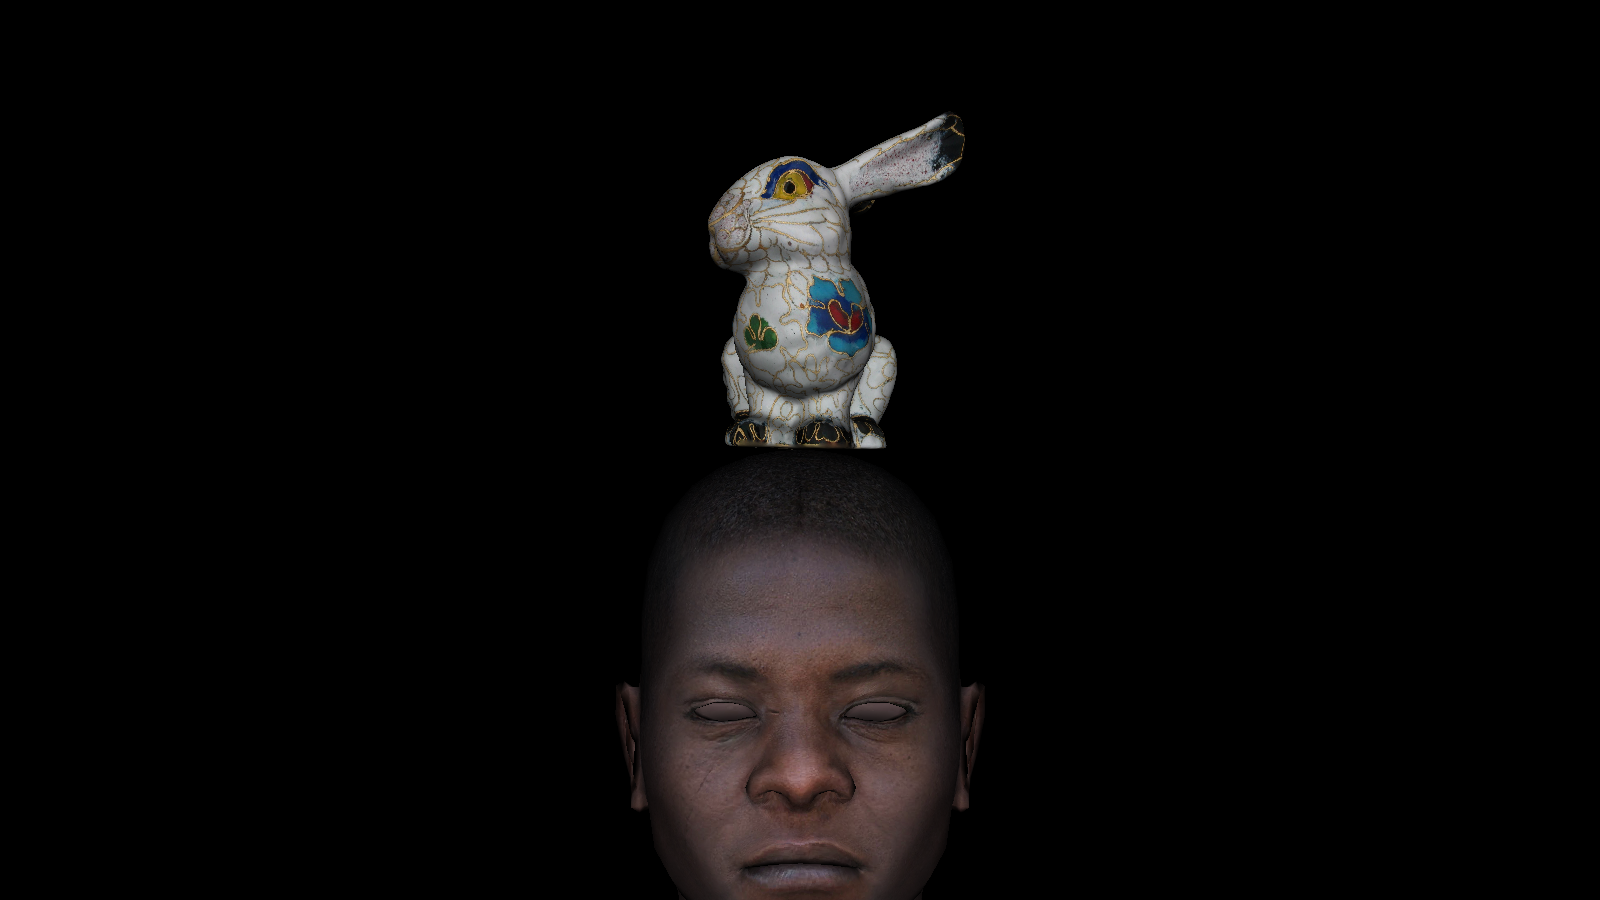
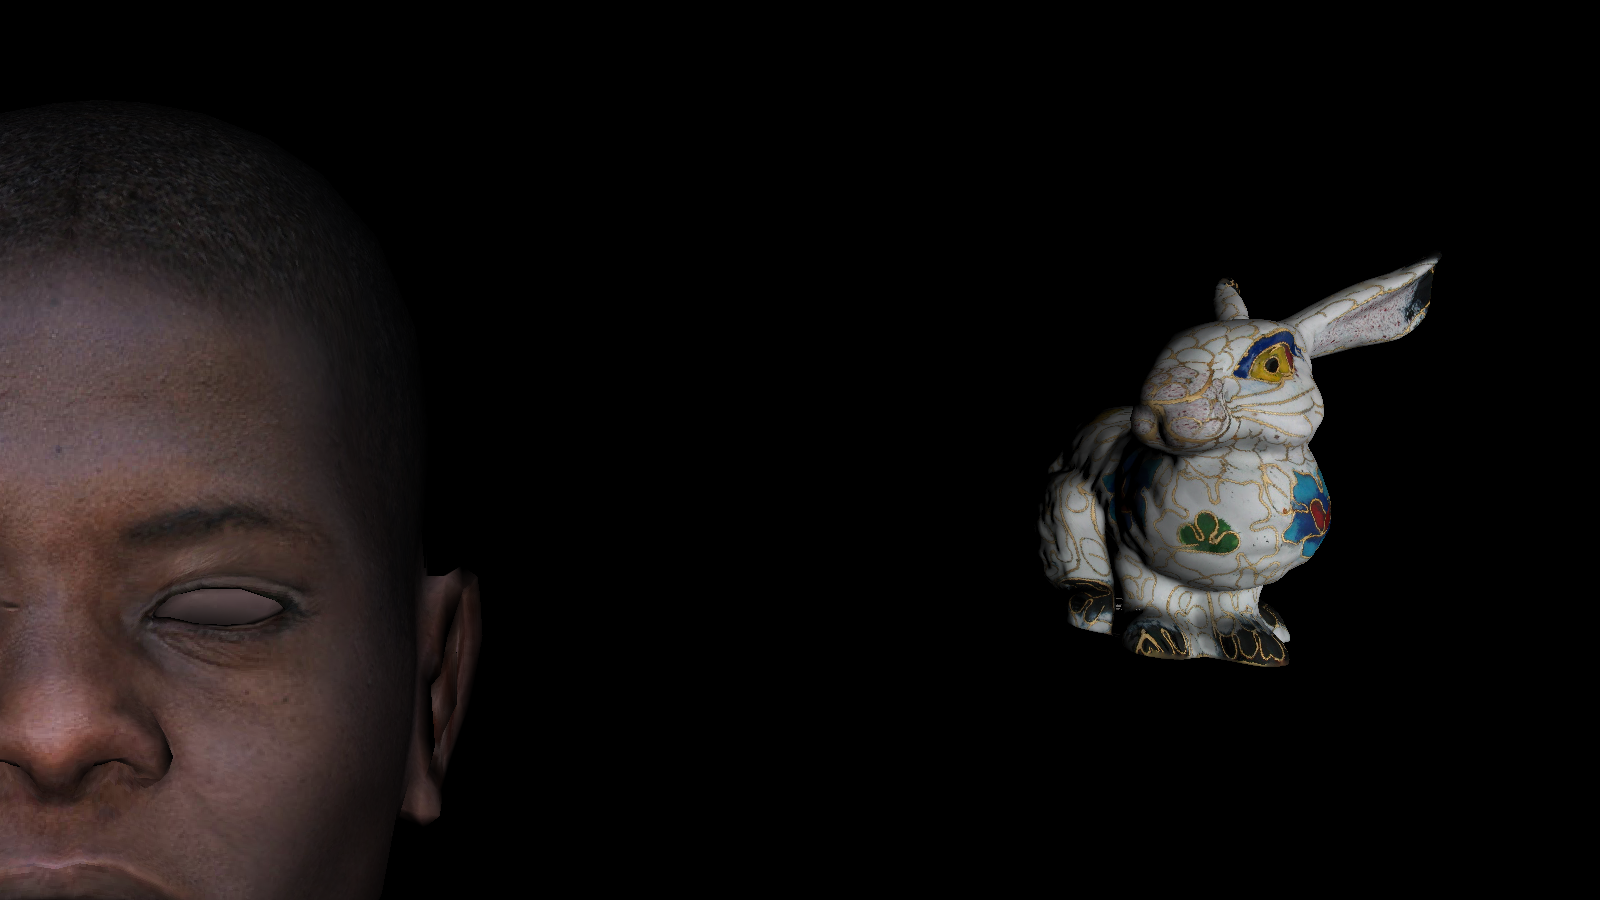
LR 5 upd

diff --git a/LR_5.py b/LR_5.py
@@ -39,7 +39,7 @@ def getNormArr(ver, pol, normArr):
         normArr[j] = normArr[j]/np.linalg.norm(normArr[j])
     return normArr
 
-def paint(matrix, zbuf, cameraCoef, sizeCoef, ver, pol, normArr, vt, txtres):
+def paint(matrix, zbuf, cameraCoef, sizeCoef, ver, pol, normArr, vt, txtres=np.array(0)):
     if(pol!=0):
         for i in pol:
             temp=cut(ver[i[0]-1][0],ver[i[0]-1][1],ver[i[0]-1][2],ver[i[1]-1][0],ver[i[1]-1][1],ver[i[1]-1][2],ver[i[2]-1][0],ver[i[2]-1][1],ver[i[2]-1][2])
@@ -53,17 +53,17 @@ def getMatrix(H, W, color):
             matrix[i][j] = color
     return matrix
 
-def getZBuff(H,W):
-    matrix = np.zeros((W,H),dtype=np.float64)
-    for i in range(0, W):
-        for j in range(0, H):
+def getZBuff(matrix):
+    matrix = np.zeros((matrix.shape[0],matrix.shape[1]),dtype=np.float64)
+    for i in range(0, matrix.shape[0]):
+        for j in range(0, matrix.shape[1]):
             matrix[i][j]=np.inf
     return matrix
 
-def saveMatrixAsIMG(matrix):
+def saveMatrixAsIMG(matrix, name='image1.png'):
     image = Image.fromarray(matrix, mode='RGB')
     image = ImageOps.flip(image)
-    image.save('image1.png')
+    image.save(name)
 
 def rotMatrix(alpha=np.radians(0),beta=np.radians(0),gamma=np.radians(0)):
     Rx=np.array(
@@ -97,7 +97,7 @@ def bary(x0,y0,x1,y1,x2,y2,x,y):
     l2 = 1.0 - l0 - l1
     return l0, l1, l2
 
-def draw_tr(matrix,zbuf,cameraCoef,sizeCoef,x0,y0,z0,x1,y1,z1,x2,y2,z2,i0,i1,i2,ipol,vt,txtres):
+def draw_tr(matrix,zbuf,cameraCoef,sizeCoef,x0,y0,z0,x1,y1,z1,x2,y2,z2,i0,i1,i2,ipol,vt,txtres=np.array(0)):
     # Сюда добавляем
     a = (7000*cameraCoef)*sizeCoef
     px0, py0 =  (a * x0 / z0 + W/2), (a * y0 /z0 + H/2)
@@ -128,12 +128,16 @@ def draw_tr(matrix,zbuf,cameraCoef,sizeCoef,x0,y0,z0,x1,y1,z1,x2,y2,z2,i0,i1,i2,
             l0,l1,l2 = bary(px0,py0,px1,py1,px2,py2,x,y)
             if(l0>=0 and l1>=0 and l2>=0):
                 z=l0*z0+l1*z1+l2*z2
-                if(z < zbuf[y][x]):
-                    I = l0*I0+l1*I1+l2*I2
-                    I = max(0, min(1,-I))
-                    color = I * txtres[int((txtres.shape[0]-1)*(l0*p0ResCoord[0]+l1*p1ResCoord[0]+l2*p2ResCoord[0]))][int((txtres.shape[1]-1)*(l0*p0ResCoord[1]+l1*p1ResCoord[1]+l2*p2ResCoord[1]))]
-                    matrix[y][x] = color
-                    zbuf[y][x] = z
+                if(x<matrix.shape[1] and y<matrix.shape[0]):
+                    if(z < zbuf[y][x]):
+                        I = l0*I0+l1*I1+l2*I2
+                        I = max(0, min(1,-I))
+                        if(len(txtres.shape)!=0):
+                            color = I * txtres[int((txtres.shape[0]-1)*(l0*p0ResCoord[0]+l1*p1ResCoord[0]+l2*p2ResCoord[0]))][int((txtres.shape[1]-1)*(l0*p0ResCoord[1]+l1*p1ResCoord[1]+l2*p2ResCoord[1]))]
+                        else:
+                            color = 255 * I
+                        matrix[y][x] = color
+                        zbuf[y][x] = z
 
 def nor(x0,y0,z0,x1,y1,z1,x2,y2,z2):
     return np.cross(np.array([x1-x2,y1-y2,z1-z2]),np.array([x1-x0,y1-y0,z1-z0]))
@@ -192,20 +196,21 @@ W = 1600
 H = 900
 matrixIMG = getMatrix(W, H,(0, 0, 0))
 cameraCoefA=10.5
-sizeCoefA=0.05
+sizeCoefA=0.1
 cameraCoefB=0.17
-sizeCoefB=0.4
+sizeCoefB=0.5
 txtresA = np.array(ImageOps.flip(Image.open("AfroRes.bmp")))
 verA, polA , vtA = objParser("Afro.obj")
 normArrA = np.zeros((len(verA), 3))
-verA=resizeNew(verA,0,-1,cameraCoefA, getQuat(0, m.pi, 0))
+verA=resizeNew(verA,-1,-0.5,cameraCoefA, getQuat(0, m.pi, 0))
 normArrA=getNormArr(verA,polA,normArrA)
 txtresB = np.array(ImageOps.flip(Image.open("BunnyRes.jpg")))
 verB, polB , vtB = objParser("Bunny.obj")
 normArrB = np.zeros((len(verB), 3))
-verB=resizeNew(verB,0,0,cameraCoefB, getQuat(0, -m.pi/2, 0))
+verB=resizeNew(verB,0.1, -0.05,cameraCoefB, getQuat(0, -m.pi/2, 0))
 normArrB=getNormArr(verB,polB,normArrB)
-zbuf=getZBuff(W,H)
+zbuf=getZBuff(matrixIMG)
 paint(matrixIMG,zbuf,cameraCoefA,sizeCoefA,verA,polA,normArrA,vtA, txtresA)
+#paint(matrixIMG,zbuf,cameraCoefA,sizeCoefA,verA,polA,normArrA,vtA)
 paint(matrixIMG,zbuf,cameraCoefB,sizeCoefB,verB,polB,normArrB,vtB, txtresB)
 saveMatrixAsIMG(matrixIMG)
